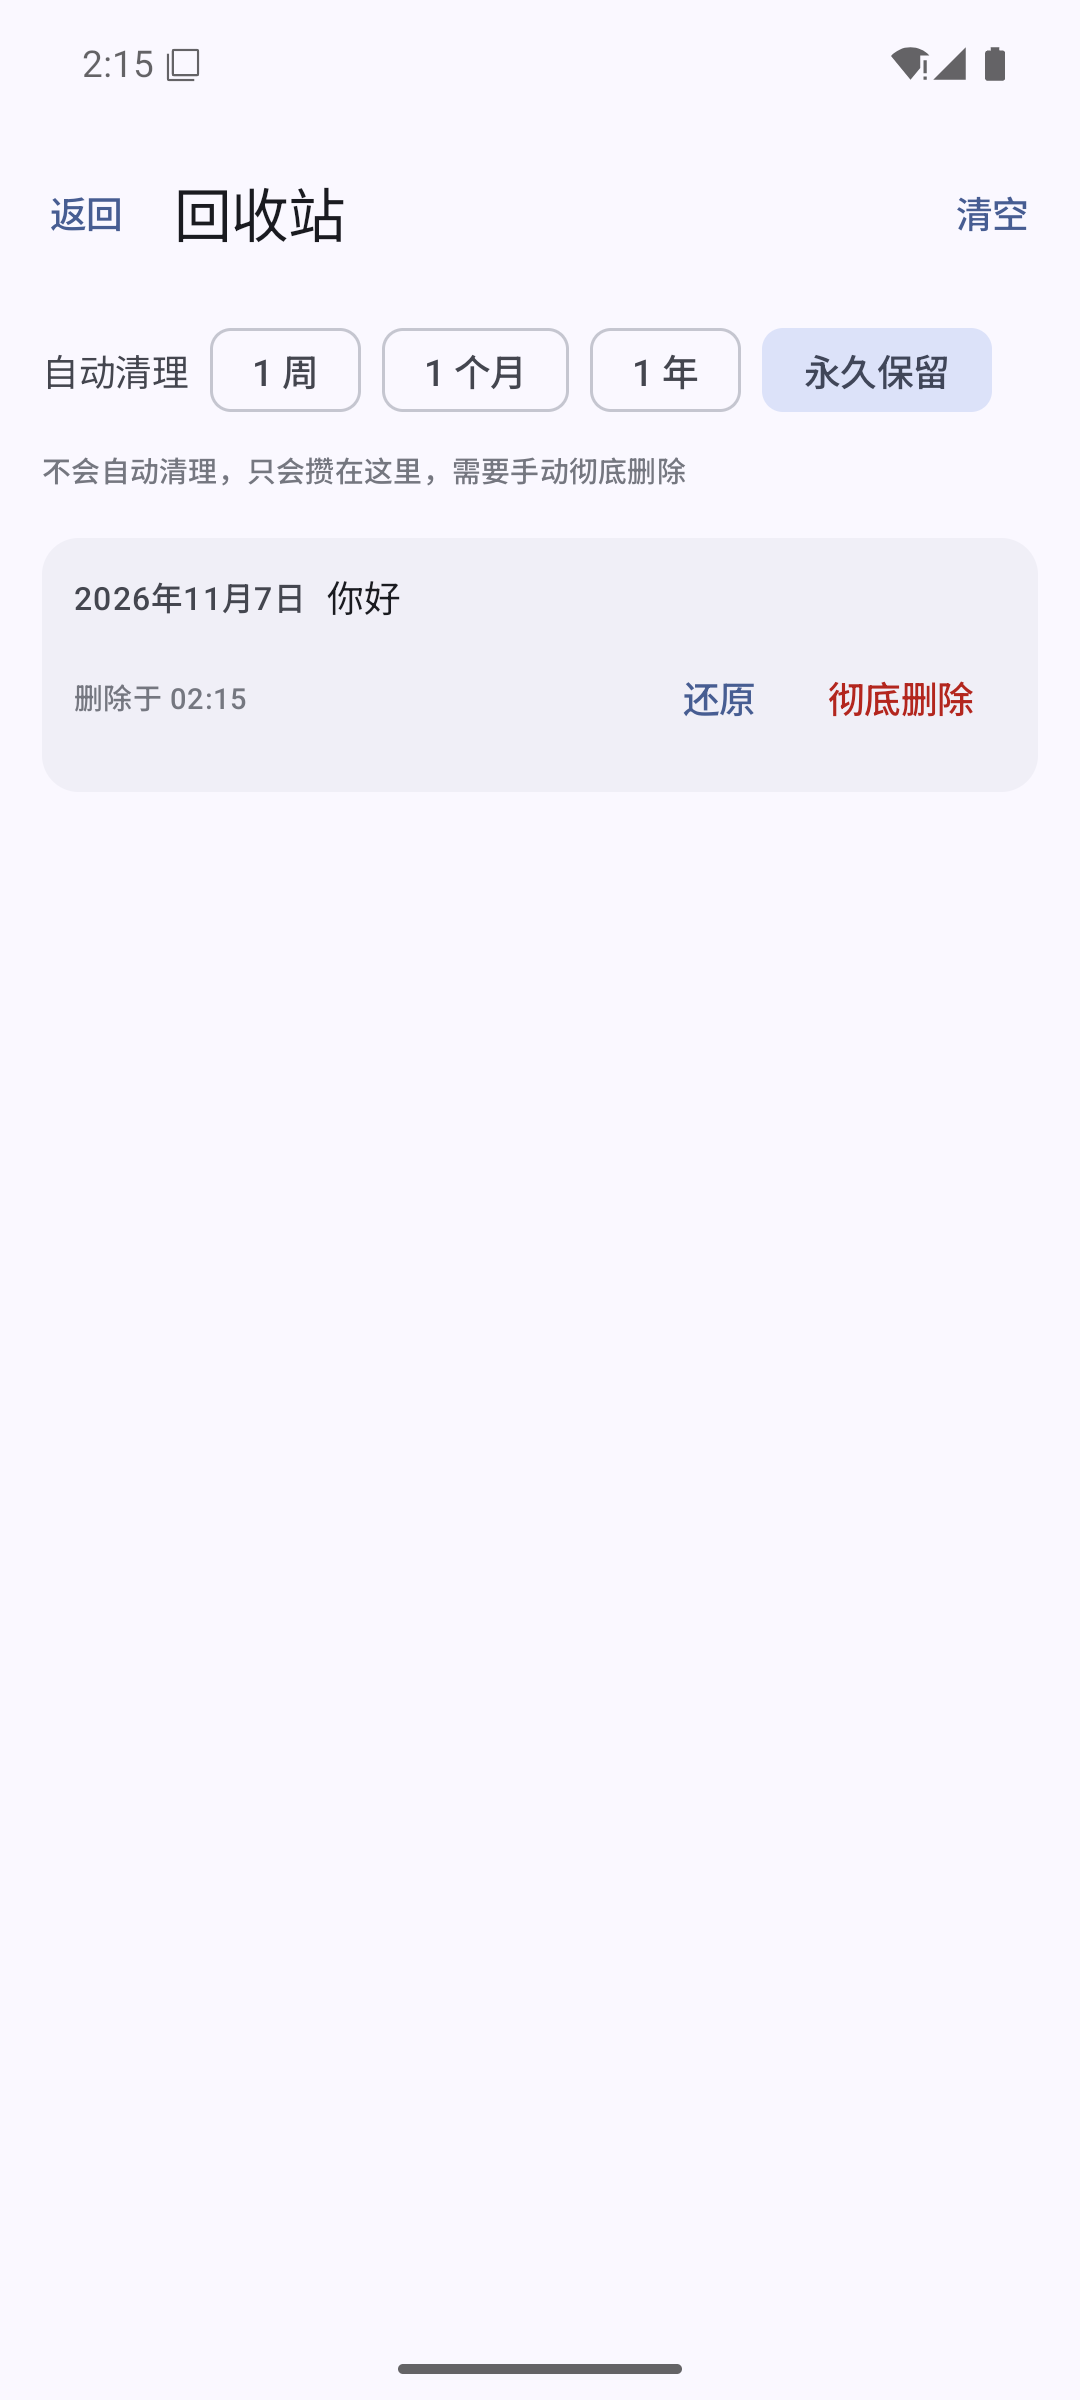
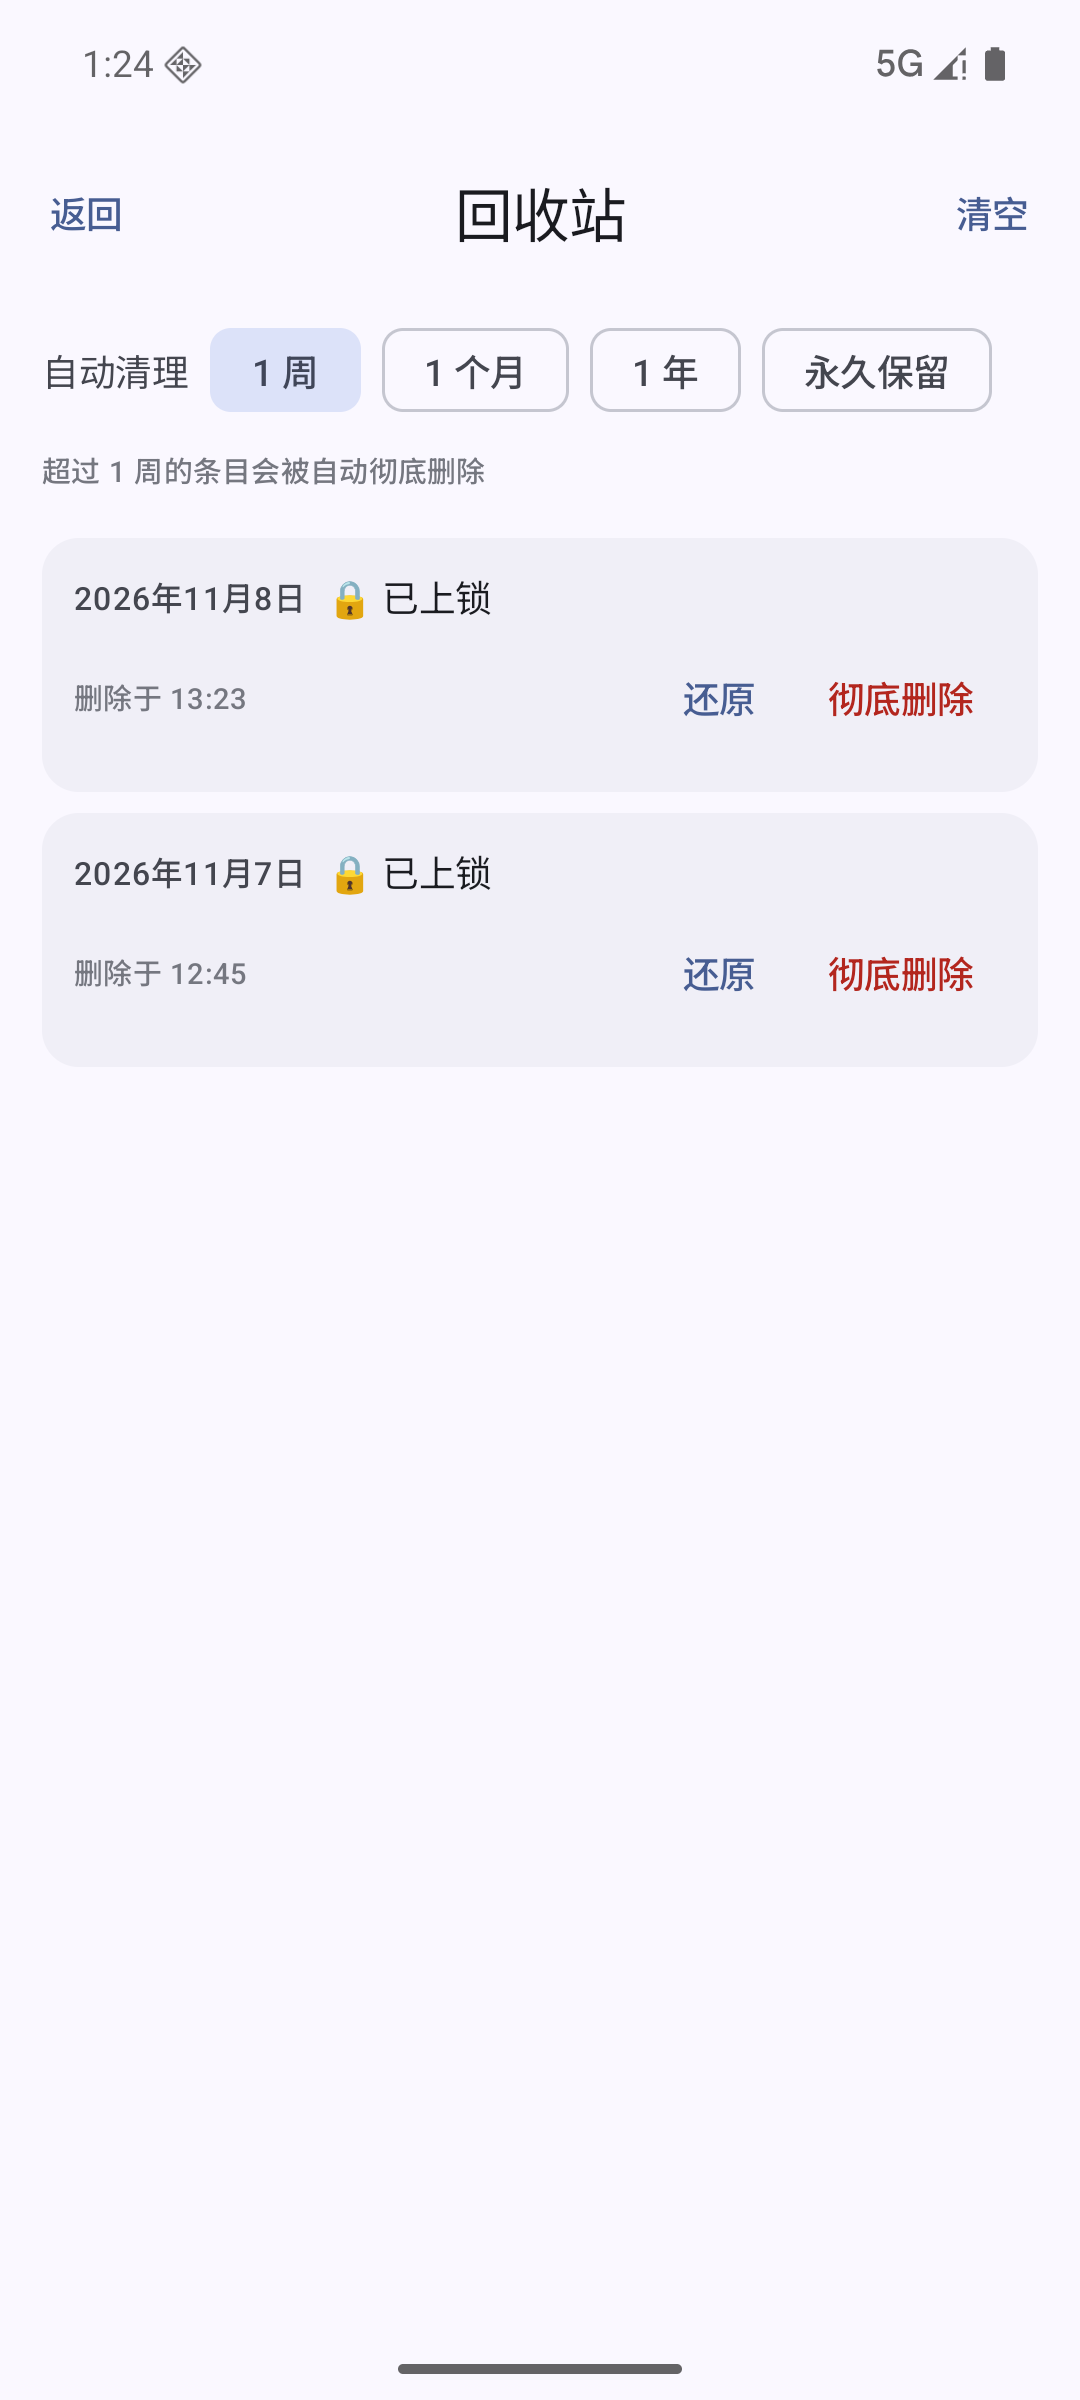
v0.26.2：回收站标题居中（CenterAlignedTopAppBar）

diff --git a/app/src/main/java/com/synn/diary/ui/trash/TrashScreen.kt b/app/src/main/java/com/synn/diary/ui/trash/TrashScreen.kt
@@ -16,6 +16,7 @@ import androidx.compose.foundation.lazy.LazyColumn
 import androidx.compose.foundation.lazy.items
 import androidx.compose.foundation.shape.RoundedCornerShape
 import androidx.compose.material3.AlertDialog
+import androidx.compose.material3.CenterAlignedTopAppBar
 import androidx.compose.material3.ExperimentalMaterial3Api
 import androidx.compose.material3.FilterChip
 import androidx.compose.material3.MaterialTheme
@@ -59,7 +60,7 @@ fun TrashScreen(
 
     Scaffold(
         topBar = {
-            TopAppBar(
+            CenterAlignedTopAppBar(
                 title = { Text("回收站") },
                 navigationIcon = {
                     TextButton(onClick = onBack) { Text("返回") }

diff --git a/app/src/main/java/com/synn/diary/ui/settings/SettingsScreen.kt b/app/src/main/java/com/synn/diary/ui/settings/SettingsScreen.kt
@@ -243,7 +243,7 @@ fun SettingsScreen(
             )
             Spacer(Modifier.height(8.dp))
             Text(
-                text = "日记 0.26.1 · 本地存储 · 不上传",
+                text = "日记 0.26.2 · 本地存储 · 不上传",
                 style = MaterialTheme.typography.bodySmall,
                 color = MaterialTheme.colorScheme.onSurfaceVariant,
             )

diff --git a/README.md b/README.md
@@ -2,7 +2,7 @@
 
 安卓本地日记 App。只为自己用：不上架、不联网、数据全在手机上。
 
-**当前版本 0.26.1（仅调试版）** ｜ 包名 `com.synn.diary`（正式）/ `com.synn.diary.debug`（调试）｜ 纯 64 位
+**当前版本 0.26.2（仅调试版）** ｜ 包名 `com.synn.diary`（正式）/ `com.synn.diary.debug`（调试）｜ 纯 64 位
 ｜ 数据库 v6 ｜ 变更历史见 [CHANGELOG.md](CHANGELOG.md) ｜ 存档信息见 [ARCHIVE.md](ARCHIVE.md)
 
 ---

diff --git a/CHANGELOG.md b/CHANGELOG.md
@@ -180,3 +180,8 @@
 - 同时触发一次 `HapticFeedbackType.LongPress` 触感
 - 弹出期间「保存」置灰，避免连点导致重复导航
 - 用 `Popup` 实现，不依赖父布局，也不会把编辑器重新布局一遍
+
+## 0.26.2 — 回收站标题居中
+
+- `TopAppBar` 换成 `CenterAlignedTopAppBar`，「回收站」标题居中；
+  左右仍有「返回」「清空」，标题按剩余空间居中（实测文字中心正好在屏幕中线上）
